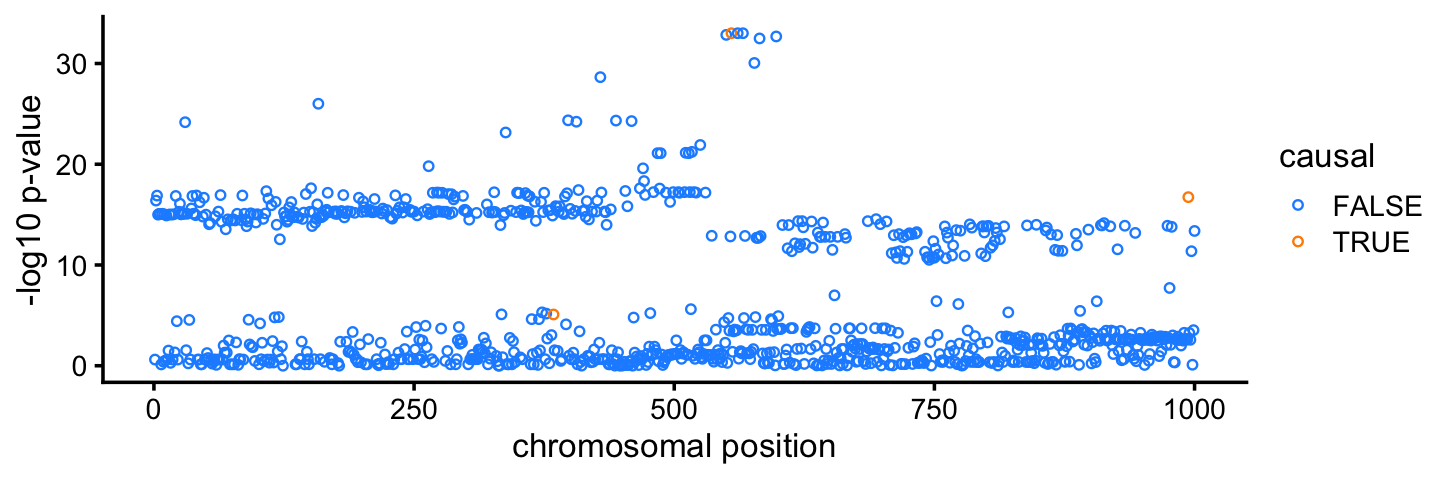
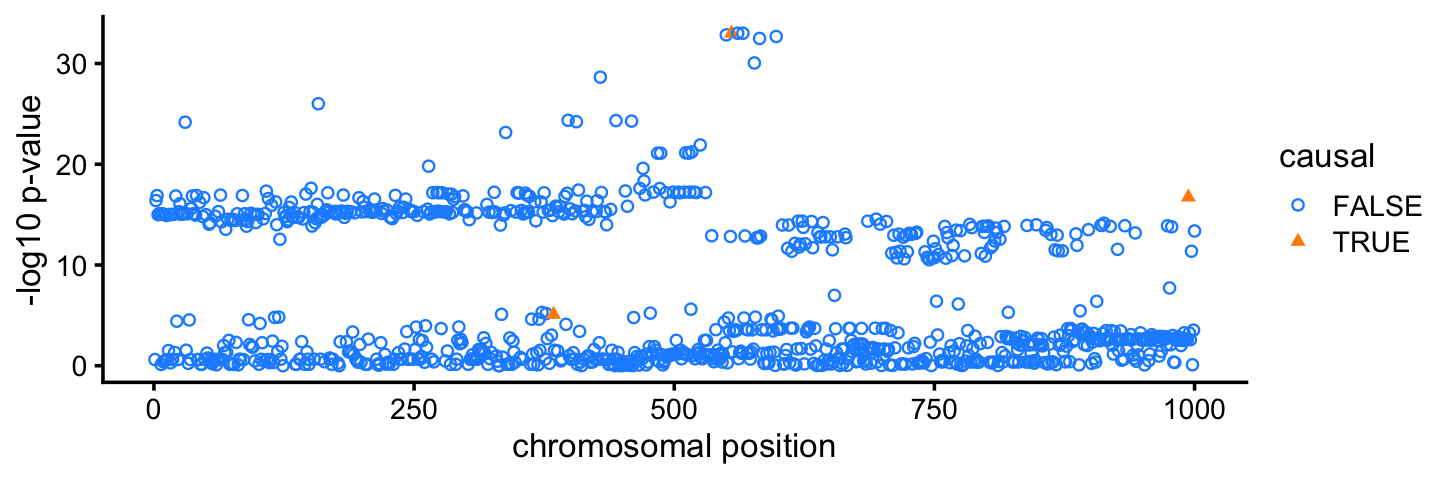
Added more explanatory text to the introductory vignette.

diff --git a/docs/coxph_susie_intro.html b/docs/coxph_susie_intro.html
@@ -439,15 +439,15 @@ project makes it easier to run your code on other machines.</p>
 <div class="panel panel-default">
 <div class="panel-heading">
 <p class="panel-title">
-<a data-toggle="collapse" data-parent="#workflowr-checks" href="#strongRepositoryversionstrongahrefhttpsgithubcomyunqiyang0215survivalsusietree92e56711924d56f3ebd81f822e9872719c09a4d3targetblank92e5671a">
+<a data-toggle="collapse" data-parent="#workflowr-checks" href="#strongRepositoryversionstrongahrefhttpsgithubcomyunqiyang0215survivalsusietree10c35d03d7af11f54d31279b53ea111cccf936cbtargetblank10c35d0a">
 <span class="glyphicon glyphicon-ok text-success"
 aria-hidden="true"></span> <strong>Repository version:</strong>
-<a href="https://github.com/yunqiyang0215/survival-susie/tree/92e56711924d56f3ebd81f822e9872719c09a4d3" target="_blank">92e5671</a>
+<a href="https://github.com/yunqiyang0215/survival-susie/tree/10c35d03d7af11f54d31279b53ea111cccf936cb" target="_blank">10c35d0</a>
 </a>
 </p>
 </div>
 <div
[2 lines of base64/hex data omitted]
 class="panel-collapse collapse">
 <div class="panel-body">
 <p>
@@ -457,7 +457,7 @@ reproducibility.
 </p>
 <p>
 The results in this page were generated with repository version
-<a href="https://github.com/yunqiyang0215/survival-susie/tree/92e56711924d56f3ebd81f822e9872719c09a4d3" target="_blank">92e5671</a>.
+<a href="https://github.com/yunqiyang0215/survival-susie/tree/10c35d03d7af11f54d31279b53ea111cccf936cb" target="_blank">10c35d0</a>.
 See the <em>Past versions</em> tab to see a history of the changes made
 to the R Markdown and HTML files.
 </p>
@@ -473,6 +473,7 @@ were generated:
 <pre><code>
 Untracked files:
     Untracked:  analysis/survival_demo.RData
+    Untracked:  survival_demo.RData
 
 </code></pre>
 <p>
@@ -518,6 +519,91 @@ Message
 </tr>
 </thead>
 <tbody>
+<tr>
+<td>
+Rmd
+</td>
+<td>
+<a href="https://github.com/yunqiyang0215/survival-susie/blob/10c35d03d7af11f54d31279b53ea111cccf936cb/analysis/coxph_susie_intro.Rmd" target="_blank">10c35d0</a>
+</td>
+<td>
+Peter Carbonetto
+</td>
+<td>
+2024-12-09
+</td>
+<td>
+workflowr::wflow_publish("coxph_susie_intro.Rmd", verbose = TRUE)
+</td>
+</tr>
+<tr>
+<td>
+Rmd
+</td>
+<td>
+<a href="https://github.com/yunqiyang0215/survival-susie/blob/caed3b02ea52c28cf6d8c7b59fa3f29b1982b19f/analysis/coxph_susie_intro.Rmd" target="_blank">caed3b0</a>
+</td>
+<td>
+Peter Carbonetto
+</td>
+<td>
+2024-12-09
+</td>
+<td>
+Made a few improvements to the text of the intro vignette.
+</td>
+</tr>
+<tr>
+<td>
+Rmd
+</td>
+<td>
+<a href="https://github.com/yunqiyang0215/survival-susie/blob/b323562b3c9297c9ae4c599d7300b698c133307d/analysis/coxph_susie_intro.Rmd" target="_blank">b323562</a>
+</td>
+<td>
+Peter Carbonetto
+</td>
+<td>
+2024-12-09
+</td>
+<td>
+Added fine-mapping step and fine-mapping plots to coxph_susie_intro Rmd.
+</td>
+</tr>
+<tr>
+<td>
+Rmd
+</td>
+<td>
+<a href="https://github.com/yunqiyang0215/survival-susie/blob/03283885954d03256b2b056e2cae79a0ada54072/analysis/coxph_susie_intro.Rmd" target="_blank">0328388</a>
+</td>
+<td>
+Peter Carbonetto
+</td>
+<td>
+2024-12-09
+</td>
+<td>
+Added a bit of text to the coxph_susie_intro vignette.
+</td>
+</tr>
+<tr>
+<td>
+html
+</td>
+<td>
+<a href="https://rawcdn.githack.com/yunqiyang0215/survival-susie/b849946358141cb2bb0c576dff8a8f54d12ce7c3/docs/coxph_susie_intro.html" target="_blank">b849946</a>
+</td>
+<td>
+Peter Carbonetto
+</td>
+<td>
+2024-12-09
+</td>
+<td>
+Added some material to the coxph-susie demo.
+</td>
+</tr>
 <tr>
 <td>
 html
@@ -627,9 +713,11 @@ workflowr::wflow_publish("analysis/coxph_susie_intro.Rmd")
 </div>
 </div>
 </div>
-<p>This short vignette is intended to introduce the CoxPH-SuSiE model
-for fine-mapping time-to-event (TTE) phenotypes, and illustrate how to
-use the methods on an example genetic data set.</p>
+<p>This short vignette is intended to (i) introduce CoxPH-SuSiE for
+fine-mapping time-to-event (TTE) phenotypes, and (ii) illustrate how to
+use CoxPH-SuSiE on an example genetic data set.</p>
+<div id="initial-setup" class="section level2">
+<h2>Initial setup</h2>
 <p>To run the code below, you will need the survival, susieR and
 logisticsusie R packages, which can be installed with these commands in
 R:</p>
@@ -639,14 +727,19 @@ remotes::install_github(&quot;stephenslab/susieR&quot;)
 remotes::install_github(&quot;karltayeb/logisticsusie&quot;)</code></pre>
 <p>Also, we will use the ggplot2 and cowplot packages to create some
 helpful visualizations of the data and results:</p>
-<p><code>{r install-more-packages, eval=FALSE install.packages(c("ggplot2","cowplot"))</code></p>
+<pre class="r"><code>install.packages(c(&quot;ggplot2&quot;,&quot;cowplot&quot;))</code></pre>
 <p>Once the packages are installed, load them.</p>
 <pre class="r"><code>library(survival)
 library(susieR)
 library(logisticsusie)
 library(ggplot2)
 library(cowplot)</code></pre>
-<p>The example data set is found in the “data” directory of this
+<p>Set the seed for reproducibility.</p>
+<pre class="r"><code>set.seed(1)</code></pre>
+</div>
+<div id="the-data-set" class="section level2">
+<h2>The data set</h2>
+<p>The example data set is found in the “data” directory of this GitHub
 repository, or can be downloaded by running these commands in R:</p>
 <pre class="r"><code>data_url &lt;- paste0(&quot;https://raw.githubusercontent.com/&quot;,
                    &quot;yunqiyang0215/survival-susie/&quot;,
@@ -654,10 +747,10 @@ repository, or can be downloaded by running these commands in R:</p>
 download.file(data_url,&quot;survival_demo.RData&quot;)
 load(&quot;survival_demo.RData&quot;)</code></pre>
 <p>In this example, the TTE data are “censored” disease diagnosis times,
-meaning that the observations are either: the time of diagnosis for
-uncensored samples; or a lower limit on the time of diagnosis for
-censored samples, indicated by the “+”. (This is called “right
-censoring”.)</p>
+meaning that the observations are either: the time of diagnosis (for
+uncensored samples); or a lower limit on the time of diagnosis for
+censored samples. The censored samples are indicated by the “+” (this is
+called “right censoring”):</p>
 <pre class="r"><code>pheno &lt;- Surv(time,status)
 head(pheno,n = 10)
 #  [1] 0.3085771  0.4654124  2.7448602+ 1.3071323+ 0.2252482  3.3300303+
@@ -669,22 +762,27 @@ the remaining 244 are right-censored:</p>
 #   0   1 
 # 244 330</code></pre>
 <p>The “geno” matrix contains the (imputed) genotype data for 1,000
-candidate genetic variants (SNPs) positioned near each other on a
+candidate genetic variants (SNPs) located near each other on the
 chromosome.</p>
 <pre class="r"><code>nrow(geno)
 ncol(geno)
 # [1] 574
 # [1] 1000</code></pre>
-<p>Basic association tests using the Cox proportional hazards (CoxPH)
-model show that many of these genetic variants are associated with the
-TTE phenotype:</p>
+</div>
+<div id="association-analysis-using-the-coxph-model"
+class="section level2">
+<h2>Association analysis using the CoxPH model</h2>
+<p>Association tests performed using the Cox proportional hazards
+(CoxPH) model show that many of thee genetic variants are associated
+with diagnosis time:</p>
 <pre class="r"><code>pvals &lt;-
   apply(geno,2,
         function (x) summary(coxph(pheno ~ x))$coefficients[1,&quot;Pr(&gt;|z|)&quot;])
 pdat &lt;- data.frame(pos = 1:1000,pval = pvals,causal = (b != 0))
-ggplot(pdat,aes(x = pos,y = -log10(pval),color = causal)) +
-  geom_point(shape = 1,size = 1) +
+ggplot(pdat,aes(x = pos,y = -log10(pval),color = causal,shape = causal)) +
+  geom_point(size = 1.25) +
   scale_color_manual(values = c(&quot;dodgerblue&quot;,&quot;darkorange&quot;)) +
+  scale_shape_manual(values = c(1,17)) +
   labs(x = &quot;chromosomal position&quot;,y = &quot;-log10 p-value&quot;) +
   theme_cowplot(font_size = 10)</code></pre>
 <p><img src="figure/coxph_susie_intro.Rmd/genome-wide-scan-1.png" width="720" style="display: block; margin: auto;" /></p>
@@ -725,14 +823,92 @@ Peter Carbonetto
 </table>
 </div>
 </div>
-<p>Since we simulated these data, we know that three SNPs truly affect
-the TTE phenotype (drawn in orange in the plot). All three of the causal
-SNPs show evidence for association from the CoxPH-based association
-tests, but the strength of support for association varies quite a bit
-among the three SNPs. Further, many more SNPs that do not affect the
-phenotype are also associated, and this occurs <em>because many of the
-SNPs are strongly correlated with each other</em> (strong <em>linkage
-disequilibrium</em>, or “LD” for short).</p>
+<p>Since we simulated these data, we know that 3 of the 1,000 SNPs truly
+affect the TTE phenotype (drawn in orange in the plot above). All three
+of these “causal” SNPs show evidence for association from the
+CoxPH-based association tests, but the strength of support for
+association varies quite a bit among the three SNPs. Further, many more
+SNPs that do not affect the phenotype are also strongly associated with
+the phenotype. This happens <em>because many of the SNPs are strongly
+correlated with each other</em> (in strong <em>linkage
+disequilibrium</em>, or “LD”).</p>
+<p>Next we will run the CoxPH-SuSiE fine-mapping method to try and
+narrow the association signal down to a smaller set of causal
+candidates.</p>
+</div>
+<div id="fine-mapping-analysis-using-the-coxph-model"
+class="section level2">
+<h2>Fine-mapping analysis using the CoxPH model</h2>
+<p>To run the fine-mapping, we first need to define a function that
+performs a (Bayesian) univariate association analysis (here, using the
+CoxPH model). More precisely, this function takes as input the
+regression data (X, Y, as well as an additional “offset” term), and the
+prior variance of the regression coefficient (v0), and outputs three
+quantities: (1) the posterior mean of the regression coefficient; (2)
+its posterior variance; and (3) the log-Bayes factor comparing the model
+against the “null” model (when the coefficient is zero).</p>
+<pre class="r"><code>surv_uni_fun &lt;- function (x, y, e, v0, estimate_intercept = 0, ...) {
+  fit  &lt;- coxph(y ~ x + offset(e))
+  out  &lt;- summary(fit)$coefficients
+  bhat &lt;- out[1,&quot;coef&quot;]
+  s    &lt;- out[1,&quot;se(coef)&quot;]
+  z    &lt;- bhat/s
+  lbf  &lt;- log(s^2/(v0 + s^2))/2 + z^2/2*v0/(v0 + s^2)
+  lbf  &lt;- lbf - z^2/2 + summary(fit)$logtest[&quot;test&quot;]/2
+  v1   &lt;- 1/(1/v0 + 1/s^2)
+  mu1  &lt;- v1*bhat/s^2
+  return(list(mu = mu1,var = v1,lbf = lbf,intercept = 0))
+}</code></pre>
+<p>Now we can fit the CoxPH-based SuSiE model using the
+<code>ibss_from_ser()</code> function from the logisticsusie package.
+Note that this step may take a minutes or two to run depending on the
+computing platform:</p>
+<pre class="r"><code>fit &lt;- ibss_from_ser(geno,pheno,L = 3,tol = 0.0001,maxit = 100,
+                     ser_function = ser_from_univariate(surv_uni_fun))</code></pre>
+<p>Now we use the <code>susie_get_cs()</code> function from the susieR
+package to compute credible sets (CSs):</p>
+<pre class="r"><code>class(fit) &lt;- c(&quot;susie&quot;,&quot;list&quot;)
+out &lt;- susie_get_cs(fit,geno,coverage = 0.95,min_abs_cor = 0.1)
+out$cs
+# $L2
+# [1] 994
+# 
+# $L1
+# [1] 550 555 561 566 582 598</code></pre>
+<p>Interestingly, in one credible set, CoxPH-SuSiE is able to identify a
+single causal SNP with very high confidence (shown in blue in the plot).
+Additionally, a second set of causal candidates is identified with 6
+plausible candidates (shown in orange). <em>Both of these CSs contain
+the true causal SNPs.</em></p>
+<pre class="r"><code>pdat &lt;- cbind(pdat,CS = 0)
+pdat[out$cs$L1,&quot;CS&quot;] &lt;- 1
+pdat[out$cs$L2,&quot;CS&quot;] &lt;- 2
+pdat &lt;- transform(pdat,CS = factor(CS))
+cs_colors &lt;- c(&quot;black&quot;,&quot;darkorange&quot;,&quot;dodgerblue&quot;)
+ggplot(pdat,aes(x = pos,y = -log10(pval),color = CS,shape = causal)) +
+  geom_point(size = 1.25) +
+  scale_color_manual(values = cs_colors) +
+  scale_shape_manual(values = c(1,17)) +
+  labs(x = &quot;chromosomal position&quot;,y = &quot;-log10 p-value&quot;) +
+  theme_cowplot(font_size = 10)</code></pre>
+<p><img src="figure/coxph_susie_intro.Rmd/plot-credible-sets-1.png" width="720" style="display: block; margin: auto;" /></p>
+<p>The PIPs (“posterior inclusion probabilities”) measure the relative
+support for the SNPs within each CS. Plotting the PIPs for all SNPs is
+helpful for understanding precisely which SNPs are the top
+candidates:</p>
+<pre class="r"><code>pdat &lt;- cbind(pdat,pip = fit$pip)
+ggplot(pdat,aes(x = pos,y = pip,color = CS,shape = causal)) +
+  geom_point(size = 1.25) +
+  scale_color_manual(values = cs_colors) +
+  scale_shape_manual(values = c(1,17)) +
+  labs(x = &quot;chromosomal position&quot;,y = &quot;PIP&quot;) +
+  theme_cowplot(font_size = 10)</code></pre>
+<p><img src="figure/coxph_susie_intro.Rmd/pip-plot-1.png" width="720" style="display: block; margin: auto;" /></p>
+<p>For example, in CS 1 (orange), 3 out of the 6 SNPs are much stronger
+candidates than the others.</p>
+<p>It is also interesting that the third causal SNPs that was not
+identified does show some modest evidence for being a causal SNP in the
+PIP plot.</p>
 <br>
 <p>
 <button type="button" class="btn btn-default btn-workflowr btn-workflowr-sessioninfo" data-toggle="collapse" data-target="#workflowr-sessioninfo" style="display: block;">
@@ -761,25 +937,27 @@ Session information
 # 
 # other attached packages:
 # [1] cowplot_1.1.3            ggplot2_3.5.0            logisticsusie_0.0.0.9002
-# [4] susieR_0.12.42           survival_3.5-8           workflowr_1.7.1         
+# [4] susieR_0.12.42           survival_3.5-8          
 # 
 # loaded via a namespace (and not attached):
-#  [1] generics_0.1.3    sass_0.4.8        utf8_1.2.4        stringi_1.8.3    
-#  [5] lattice_0.22-5    digest_0.6.34     magrittr_2.0.3    evaluate_0.23    
-#  [9] grid_4.3.3        fastmap_1.1.1     plyr_1.8.9        rprojroot_2.0.4  
-# [13] jsonlite_1.8.8    Matrix_1.6-5      processx_3.8.3    whisker_0.4.1    
-# [17] reshape_0.8.9     mixsqp_0.3-54     ps_1.7.6          promises_1.2.1   
-# [21] httr_1.4.7        fansi_1.0.6       scales_1.3.0      jquerylib_0.1.4  
-# [25] cli_3.6.2         rlang_1.1.3       crayon_1.5.2      munsell_0.5.0    
-# [29] splines_4.3.3     withr_3.0.0       cachem_1.0.8      yaml_2.3.8       
-# [33] tools_4.3.3       dplyr_1.1.4       colorspace_2.1-0  httpuv_1.6.14    
-# [37] vctrs_0.6.5       R6_2.5.1          matrixStats_1.2.0 lifecycle_1.0.4  
-# [41] git2r_0.33.0      stringr_1.5.1     fs_1.6.3          irlba_2.3.5.1    
-# [45] pkgconfig_2.0.3   callr_3.7.5       pillar_1.9.0      bslib_0.6.1      
-# [49] later_1.3.2       gtable_0.3.4      glue_1.7.0        Rcpp_1.0.12      
-# [53] highr_0.10        tidyselect_1.2.1  xfun_0.42         tibble_3.2.1     
-# [57] rstudioapi_0.15.0 knitr_1.45        farver_2.1.1      htmltools_0.5.7  
-# [61] labeling_0.4.3    rmarkdown_2.26    compiler_4.3.3    getPass_0.2-4</code></pre>
+#  [1] sass_0.4.8         utf8_1.2.4         generics_0.1.3     stringi_1.8.3     
+#  [5] lattice_0.22-5     digest_0.6.34      magrittr_2.0.3     evaluate_0.23     
+#  [9] grid_4.3.3         fastmap_1.1.1      plyr_1.8.9         rprojroot_2.0.4   
+# [13] workflowr_1.7.1    jsonlite_1.8.8     Matrix_1.6-5       whisker_0.4.1     
+# [17] reshape_0.8.9      mixsqp_0.3-54      promises_1.2.1     purrr_1.0.2       
+# [21] fansi_1.0.6        scales_1.3.0       jquerylib_0.1.4    cli_3.6.2         
+# [25] rlang_1.1.3        crayon_1.5.2       munsell_0.5.0      splines_4.3.3     
+# [29] withr_3.0.0        cachem_1.0.8       yaml_2.3.8         parallel_4.3.3    
+# [33] tools_4.3.3        dplyr_1.1.4        colorspace_2.1-0   httpuv_1.6.14     
+# [37] RcppZiggurat_0.1.6 Rfast_2.1.0        vctrs_0.6.5        R6_2.5.1          
+# [41] matrixStats_1.2.0  lifecycle_1.0.4    git2r_0.33.0       stringr_1.5.1     
+# [45] tictoc_1.2.1       fs_1.6.3           irlba_2.3.5.1      pkgconfig_2.0.3   
+# [49] RcppParallel_5.1.7 pillar_1.9.0       bslib_0.6.1        later_1.3.2       
+# [53] gtable_0.3.4       glue_1.7.0         Rcpp_1.0.12        highr_0.10        
+# [57] xfun_0.42          tibble_3.2.1       tidyselect_1.2.1   knitr_1.45        
+# [61] farver_2.1.1       htmltools_0.5.7    labeling_0.4.3     rmarkdown_2.26    
+# [65] compiler_4.3.3</code></pre>
+</div>
 </div>
 
 
